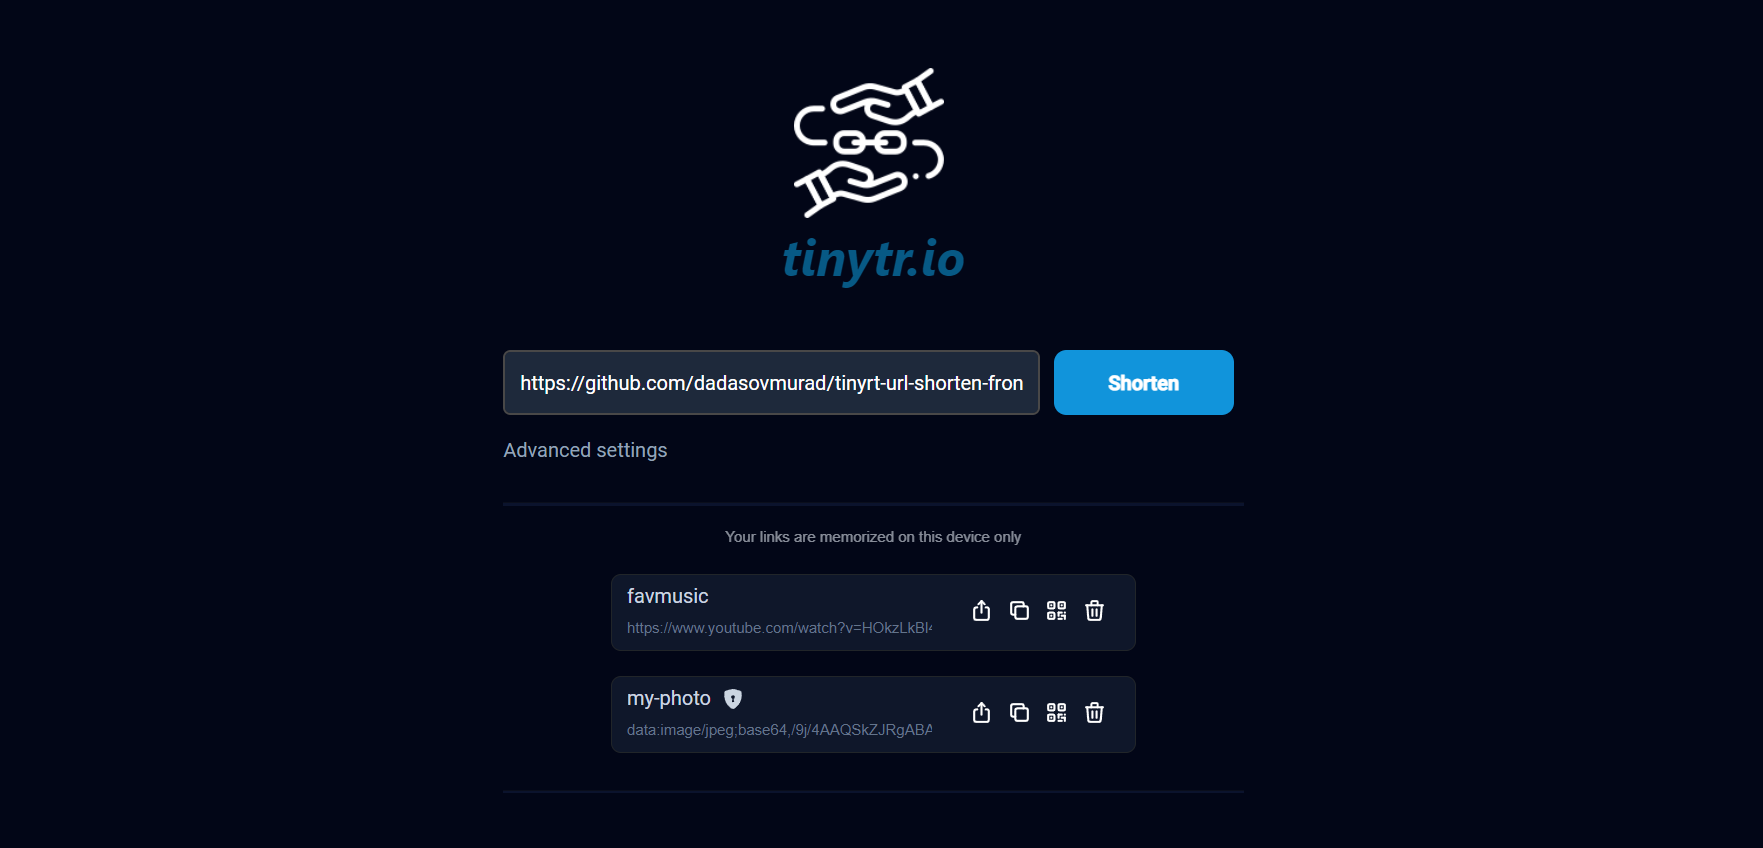
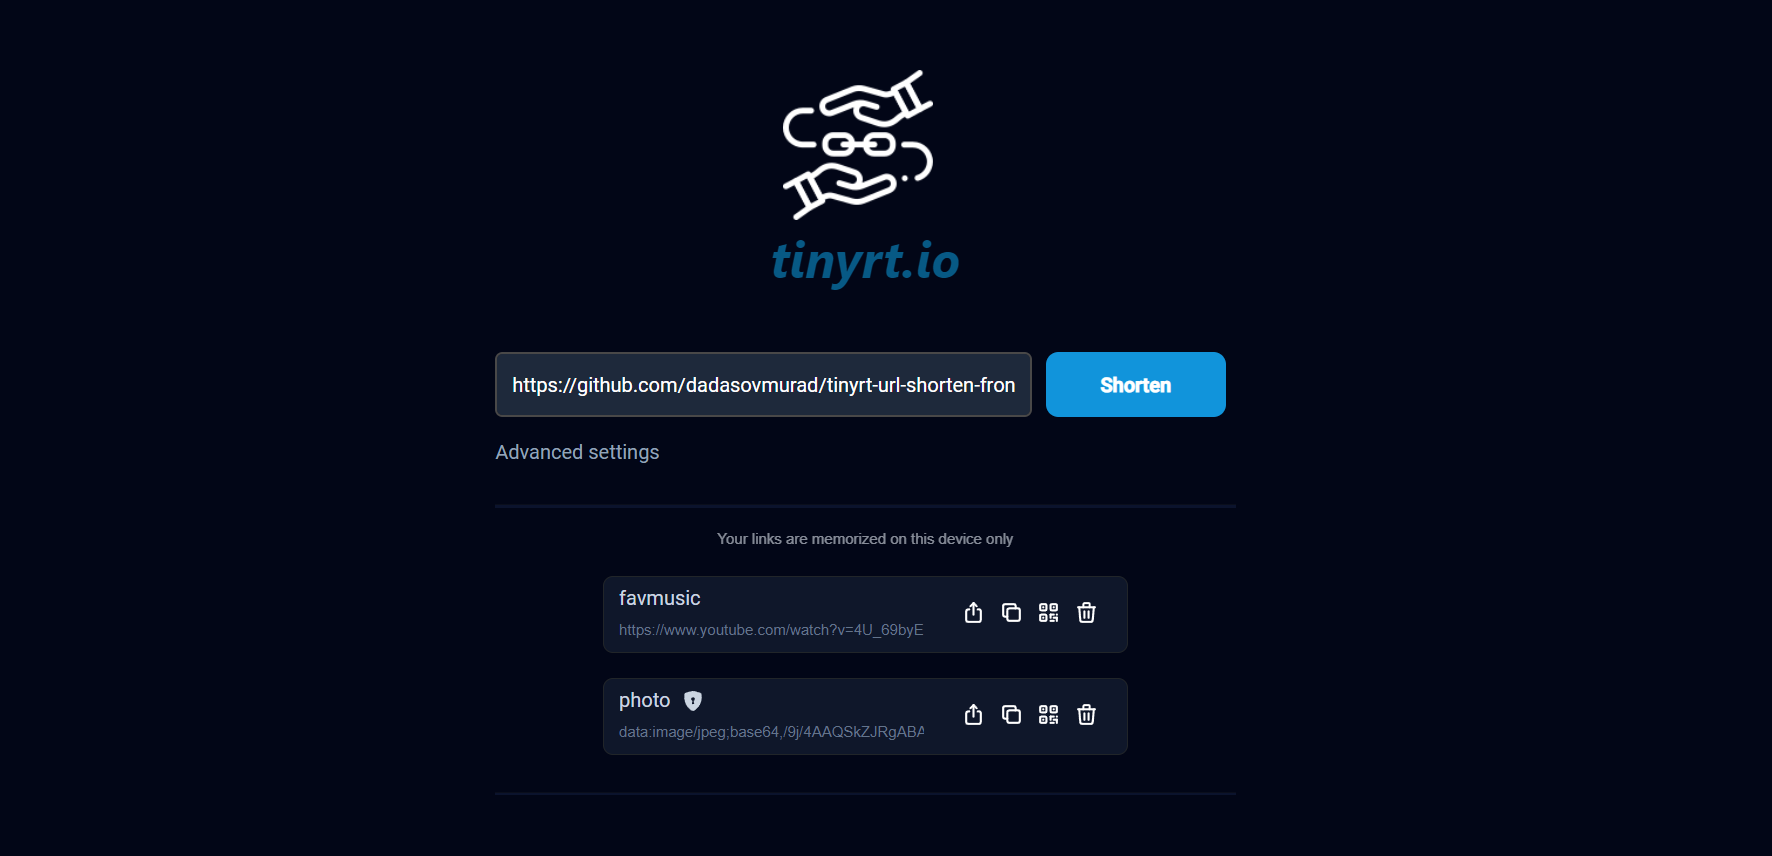
configuration domaind and screenshots

diff --git a/src/index.html b/src/index.html
@@ -2,7 +2,7 @@
 <html lang="en">
 <head>
   <meta charset="utf-8">
-  <title>TinyrtUrlShorten</title>
+  <title>Tinyrt Url Shorten</title>
   <base href="/">
   <meta name="viewport" content="width=device-width, initial-scale=1">
   <link rel="icon" type="image/x-icon" href="favicon.ico">

diff --git a/src/app/components/header/header.component.html b/src/app/components/header/header.component.html
@@ -7,6 +7,6 @@
         alt="A lobster"
       />
     </a>
-    <label class="domain-name">tinytr.io</label>
+    <label class="domain-name">tinyrt.io</label>
   </div>
 </div>
